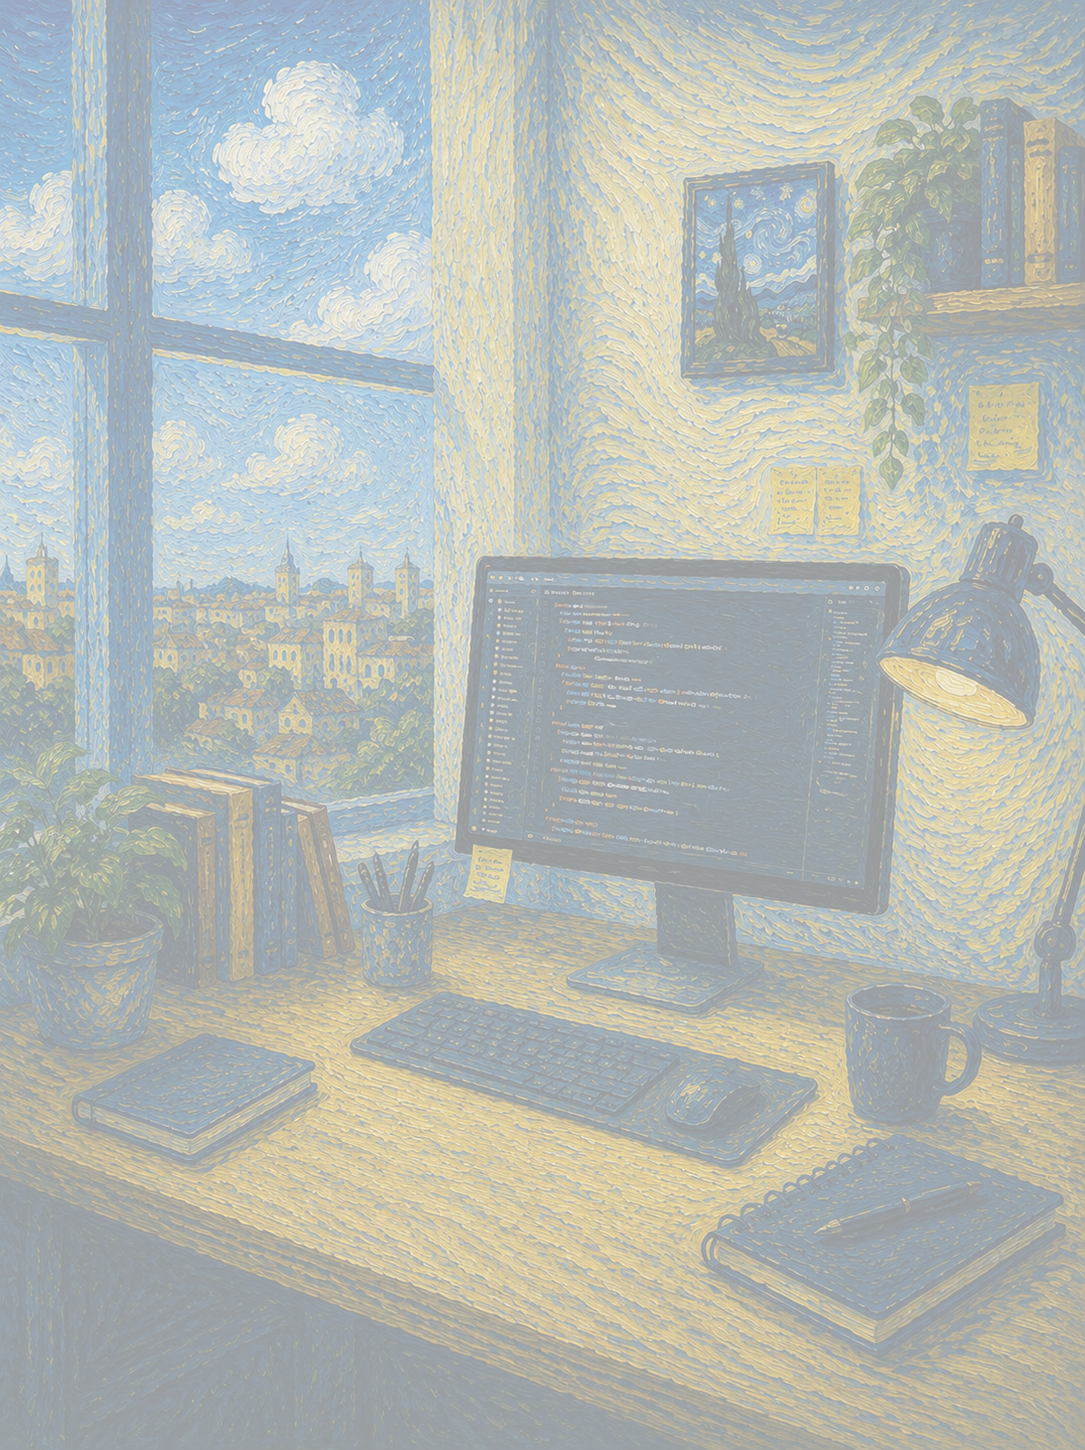
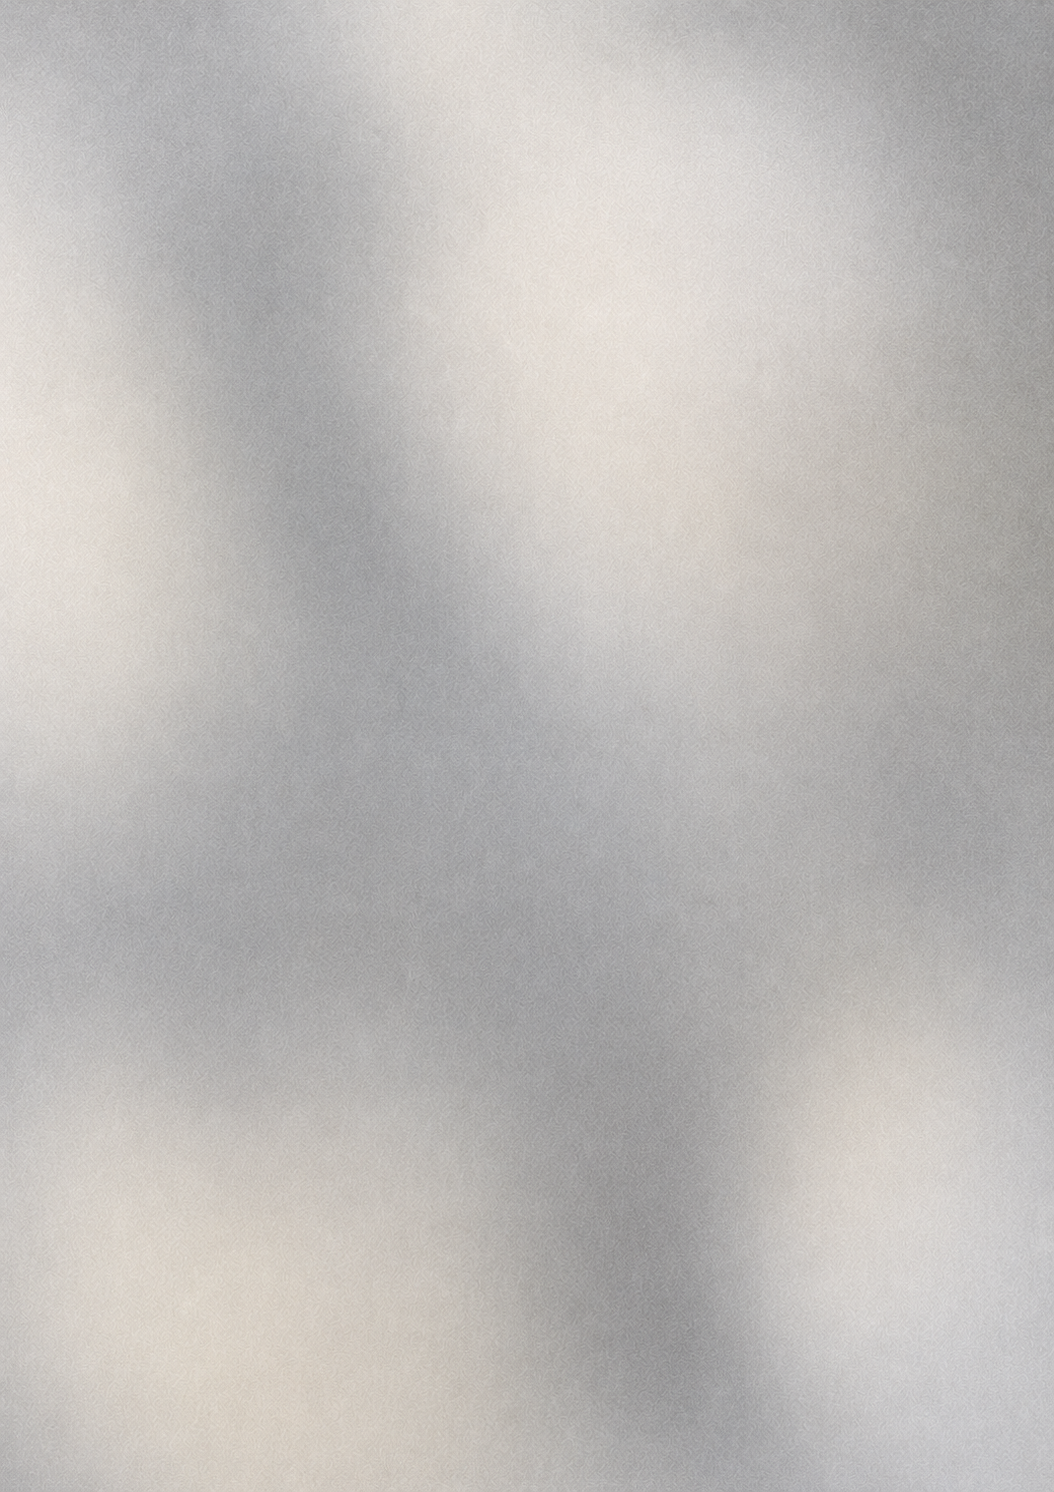
animtions

diff --git a/src/pages/HomePage.jsx b/src/pages/HomePage.jsx
@@ -37,7 +37,7 @@ export default function HomePage() {
           />
         </motion.div>
 
-        <div className="flex flex-col gap-2"> 
+        <div className="flex flex-col gap-3"> 
           <motion.div 
               className="flex fle-row gap-3 items-center"
               initial={{ opacity: 0, y: 20 }}
@@ -52,7 +52,7 @@ export default function HomePage() {
           initial={{ opacity: 0, y: 20 }}
           animate={{ opacity: 1, y: 1 }}
           transition={{ duration: 0.6, ease: "easeOut", delay: 0.4 }}
-          className="text-[16px] text-black/50">
+          className="text-[14px] text-black/60">
             Projetando com excelência. Desenvolvendo com propósito.
           </motion.p>
         </div>
@@ -103,27 +103,47 @@ export default function HomePage() {
       transition={{ duration: 0.6, ease: "easeOut", delay: 1.5 }} 
       className="grid grid-cols-3 gap-3">
         {/* First image */}
-        <Link to="/projects/inv-ds" className="cursor-label-target flex flex-col gap-4">
-        <span>App de vendedores</span>
+        <Link to="/projects/rep-sales-app" className="cursor-label-target flex flex-col gap-4 group">
+          <div className="flex flex-row justify-between">
+            <p className="text-[16px] text-black leading-none font-regular">App de Vendas</p>
+            <svg 
+              xmlns="http://www.w3.org/2000/svg" 
+              fill="none" viewBox="0 0 24 24" 
+              stroke-width="1.5" stroke="currentColor" 
+              className="size-6 opacity-0 group-hover:opacity-100 group-hover:scale-110 transition-all duration-600">
+              <path stroke-linecap="round" stroke-linejoin="round" d="m4.5 19.5 15-15m0 0H8.25m11.25 0v11.25" />
+            </svg>
+          </div>
+
           <div className="
-            flex items-center justify-center h-[540px] w-full p-6
+            flex items-center justify-center h-[540px] w-full p-10
             bg-[url('/images/cover-background-1.png')] overflow-hidden
-            bg-no-repeat bg-cover bg-center group
+            bg-no-repeat bg-cover bg-center relative
             ">
             <img 
               src="/images/cover-projects-1.png"
               alt="Rep Sales App" 
-              className="h-full w-auto object-contain group-hover:scale-105 transition-transform duration-400" 
+              className="h-full w-auto object-contain group-hover:scale-105 transition-transform duration-600" 
             />
+            <div className="absolute inset-0 bg-black/20 opacity-0 group-hover:opacity-100 transition-opacity duration-300"></div>
           </div>
         </Link>
 
-        <Link to="/projects/inv-ds" className="cursor-label-target flex flex-col gap-4">
-        <span>App de vendedores</span>
+        <Link to="/projects/seller-platform" className="cursor-label-target flex flex-col gap-4 group">
+          <div className="flex flex-row justify-between">
+            <p className="text-[16px] text-black leading-none font-regular">Rotas para Consultores</p>
+            <svg 
+              xmlns="http://www.w3.org/2000/svg" 
+              fill="none" viewBox="0 0 24 24" 
+              stroke-width="1.5" stroke="currentColor" 
+              className="size-6 opacity-0 group-hover:opacity-100 group-hover:scale-110 transition-all duration-600">
+              <path stroke-linecap="round" stroke-linejoin="round" d="m4.5 19.5 15-15m0 0H8.25m11.25 0v11.25" />
+            </svg>
+          </div>
           <div className="
-            flex items-center justify-center h-[540px] w-full p-6
+            flex items-center justify-center h-[540px] w-full p-10
             bg-[url('/images/cover-background-2.png')] overflow-hidden
-            bg-no-repeat bg-cover bg-center group
+            bg-no-repeat bg-cover bg-center relative
             ">
             <video 
               src="/images/Screen Recording 2026-02-07 at 00.03.45.mp4" 
@@ -131,23 +151,36 @@ export default function HomePage() {
               loop 
               muted 
               playsInline 
-              className="w-full h-auto object-contain group-hover:scale-105 transition-transform duration-400" 
+              className="w-full h-full object-contain group-hover:scale-105 transition-transform duration-600" 
             />
+            <div className="absolute inset-0 bg-black/20 opacity-0 group-hover:opacity-100 transition-opacity duration-300"></div>
+
           </div>
         </Link>
 
-        <Link to="/projects/inv-ds" className="cursor-label-target flex flex-col gap-4">
-        <span>App de vendedores</span>
+        <Link to="/projects/inv-ds" className="cursor-label-target flex flex-col gap-4 group">
+          <div className="flex flex-row justify-between">
+            <p className="text-[16px] text-black leading-none font-regular">Design System</p>
+            <svg 
+              xmlns="http://www.w3.org/2000/svg" 
+              fill="none" viewBox="0 0 24 24" 
+              stroke-width="1.5" stroke="currentColor" 
+              className="size-6 opacity-0 group-hover:opacity-100 group-hover:scale-110 transition-all duration-600">
+              <path stroke-linecap="round" stroke-linejoin="round" d="m4.5 19.5 15-15m0 0H8.25m11.25 0v11.25" />
+            </svg>
+          </div>
           <div className="
-            flex items-center justify-center h-[540px] w-full p-6
+            flex items-center justify-center h-[540px] w-full p-10
             bg-[url('/images/cover-background-3.png')] overflow-hidden
-            bg-no-repeat bg-cover bg-center group
+            bg-no-repeat bg-cover bg-center relative
             ">
             <img 
               src="/images/cover-projects-2.png"
               alt="Rep Sales App" 
-              className="h-full w-auto object-contain group-hover:scale-105 transition-transform duration-400" 
+              className="h-full w-auto object-contain group-hover:scale-105 transition-transform duration-600" 
             />
+            <div className="absolute inset-0 bg-black/20 opacity-0 group-hover:opacity-100 transition-opacity duration-300"></div>
+
           </div>
         </Link>
       </motion.section>
